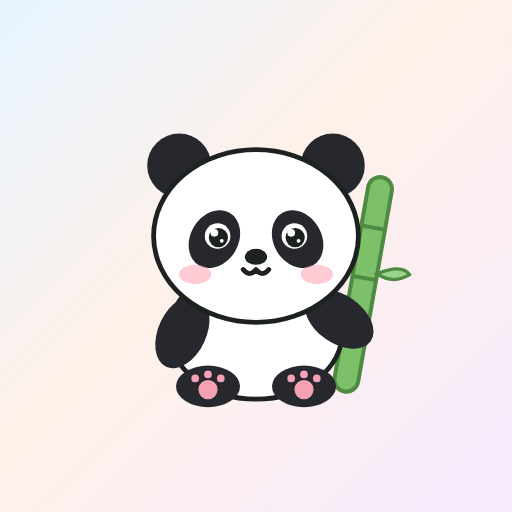
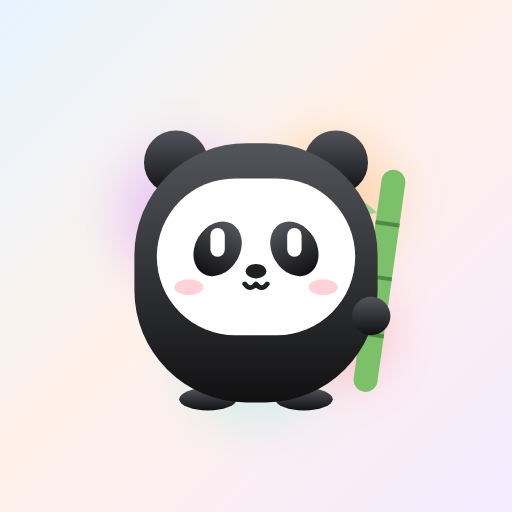
Redesenha o panda em estilo minimalista inspirado na estética da Toki
Corpo único em degradê, rosto branco liso, olhos em pílula e brilho colorido
desfocado atrás. Humores, acessórios e roupas readaptados ao novo formato.

Changed region(s): [[0.25, 0.25, 0.8125, 0.8125]]

diff --git a/panda.js b/panda.js
@@ -22,154 +22,154 @@
     mao: { '': 'Nada', bambu: 'Segurando bambu' },
   };
 
-  /* ---------- partes do desenho ---------- */
+  /* ---------- partes do desenho (estilo minimalista: corpo único em degradê) ---------- */
+  const EY = 94, EL = 76, ER = 124;   // centro dos olhos
+
   function olhos(h) {
-    const L = 76, R = 124, Y = 90;
-    const aberto = (x, dy = 0) => `<circle cx="${x}" cy="${Y}" r="8" fill="${B}"/><circle cx="${x + .5}" cy="${Y + 1 + dy}" r="6" fill="${C}"/>` +
-      `<circle cx="${x - 2}" cy="${Y - 2 + dy}" r="2.4" fill="${B}"/><circle cx="${x + 2.6}" cy="${Y + 3 + dy}" r="1.2" fill="${B}"/>`;
-    const arco = (x, d) => `<path d="M${x - 8} ${Y} q8 ${d} 16 0" fill="none" stroke="${B}" stroke-width="3.5" stroke-linecap="round"/>`;
-    const meio = x => `<path d="M${x - 8} ${Y} a8 8 0 0 0 16 0 z" fill="${B}"/><circle cx="${x}" cy="${Y + 3}" r="3.6" fill="${C}"/>`;
+    const pilula = (x, alt = 18, dy = 0) => `<rect x="${x - 4.5}" y="${EY - alt / 2 + dy}" width="9" height="${alt}" rx="4.5" fill="${B}"/>`;
+    const arco = (x, d) => `<path d="M${x - 7} ${EY + (d > 0 ? -2 : 3)} q7 ${d} 14 0" fill="none" stroke="${B}" stroke-width="4" stroke-linecap="round"/>`;
     switch (h) {
-      case 'feliz': return arco(L, -9) + arco(R, -9);
-      case 'dormindo': return arco(L, 7) + arco(R, 7);
-      case 'bravo': return meio(L) + meio(R);
-      case 'preguica': return meio(L) + meio(R) + `<path d="M${L - 9} ${Y}h18M${R - 9} ${Y}h18" stroke="${B}" stroke-width="3" stroke-linecap="round"/>`;
-      case 'triste': return aberto(L, 2) + aberto(R, 2);
-      default: return aberto(L) + aberto(R);
+      case 'feliz': return arco(EL, -10) + arco(ER, -10);
+      case 'dormindo': return arco(EL, 7) + arco(ER, 7);
+      case 'preguica': return pilula(EL, 8, 5) + pilula(ER, 8, 5);
+      case 'triste': return pilula(EL, 13, 4) + pilula(ER, 13, 4);
+      case 'bravo': return `<path d="M${EL - 4.5} ${EY - 3} L${EL + 4.5} ${EY + 1} V${EY + 9} a4.5 4.5 0 0 1 -9 0 Z" fill="${B}"/>` +
+        `<path d="M${ER + 4.5} ${EY - 3} L${ER - 4.5} ${EY + 1} V${EY + 9} a4.5 4.5 0 0 0 9 0 Z" fill="${B}"/>`;
+      default: return pilula(EL) + pilula(ER);
     }
   }
 
   function boca(h) {
     const s = `fill="none" stroke="${C}" stroke-width="3" stroke-linecap="round" stroke-linejoin="round"`;
     switch (h) {
-      case 'feliz': return `<path d="M90 111 Q100 127 110 111 Z" fill="#5a2a2f" stroke="${C}" stroke-width="2.5" stroke-linejoin="round"/><ellipse cx="100" cy="119" rx="5" ry="3" fill="${ROSA}"/>`;
-      case 'triste': return `<path d="M92 120 q8 -8 16 0" ${s}/>`;
-      case 'bravo': return `<path d="M90 119 l5 -4 l5 4 l5 -4 l5 4" ${s}/>`;
-      case 'dormindo': return `<ellipse cx="100" cy="116" rx="3.5" ry="4.5" fill="${C}"/>`;
-      case 'preguica': return `<path d="M94 115 q6 2 12 0" ${s}/>`;
-      default: return `<path d="M92 111 q4 5 8 0 q4 5 8 0" ${s}/>`;
+      case 'feliz': return `<path d="M91 120 Q100 134 109 120 Z" fill="${C}" stroke="${C}" stroke-width="2" stroke-linejoin="round"/><ellipse cx="100" cy="127.5" rx="4.5" ry="2.6" fill="${ROSA}"/>`;
+      case 'triste': return `<path d="M93 129 q7 -7 14 0" ${s}/>`;
+      case 'bravo': return `<path d="M91 128 l4.5 -4 l4.5 4 l4.5 -4 l4.5 4" ${s}/>`;
+      case 'dormindo': return `<ellipse cx="100" cy="125" rx="3" ry="4" fill="${C}"/>`;
+      case 'preguica': return `<path d="M95 124 q5 2 10 0" ${s}/>`;
+      default: return `<path d="M93 120 q3.5 4.5 7 0 q3.5 4.5 7 0" ${s}/>`;
     }
   }
 
   function sobrancelhas(h) {
-    const s = `fill="none" stroke="${C}" stroke-width="3.2" stroke-linecap="round"`;
-    if (h === 'bravo') return `<path d="M60 64 L84 73 M140 64 L116 73" ${s}/>`;
-    if (h === 'triste') return `<path d="M62 72 L82 66 M138 72 L118 66" ${s}/>`;
+    const s = `fill="none" stroke="${C}" stroke-width="3.5" stroke-linecap="round"`;
+    if (h === 'bravo') return `<path d="M62 70 L84 78 M138 70 L116 78" ${s}/>`;
+    if (h === 'triste') return `<path d="M64 77 L82 71 M136 77 L118 71" ${s}/>`;
     return '';
   }
 
   function extrasRosto(h) {
     let s = '';
-    if (h === 'triste') s += `<path class="lagrima" d="M68 104 q-5 8 0 11 q5 -3 0 -11z" fill="#7cc3f5"/>`;
-    if (h === 'bravo') s += `<path d="M146 44 q5 5 0 10 M156 44 q-5 5 0 10 M146 44 q5 5 10 0 M146 54 q5 -5 10 0" fill="none" stroke="${VERMELHO}" stroke-width="3" stroke-linecap="round"/>`;
+    if (h === 'triste') s += `<path class="lagrima" d="M69 108 q-4.5 7 0 10 q4.5 -3 0 -10z" fill="#7cc3f5"/>`;
+    if (h === 'bravo') s += `<path d="M148 50 q5 5 0 10 M158 50 q-5 5 0 10 M148 50 q5 5 10 0 M148 60 q5 -5 10 0" fill="none" stroke="${VERMELHO}" stroke-width="3" stroke-linecap="round"/>`;
     return s;
   }
 
   function cabecaAcessorio(a) {
     switch (a) {
-      case 'chapeu': return `<path d="M56 52 Q58 12 100 10 Q142 12 144 52 Z" fill="#cdb98a" stroke="#a8925f" stroke-width="2.5"/>` +
-        `<path d="M58 44 Q100 34 142 44" fill="none" stroke="#a8925f" stroke-width="5"/>` +
-        `<ellipse cx="100" cy="53" rx="74" ry="14" fill="#d8c597" stroke="#a8925f" stroke-width="2.5"/>`;
-      case 'bone': return `<path d="M42 66 Q44 10 100 8 Q156 10 158 66 Q100 50 42 66 Z" fill="${VERMELHO}" stroke="${VERMELHO_E}" stroke-width="2.5"/>` +
-        `<path d="M100 9 V58" stroke="${VERMELHO_E}" stroke-width="2"/><circle cx="100" cy="10" r="5" fill="${VERMELHO_E}"/>` +
-        `<path d="M148 58 Q182 48 194 62 Q172 74 150 70 Z" fill="#3b6fd8" stroke="#2c56b0" stroke-width="2.5"/>`;
-      case 'faixa': return `<path d="M37 70 Q100 44 163 70 L163 83 Q100 57 37 83 Z" fill="${VERMELHO}" stroke="${VERMELHO_E}" stroke-width="2"/>` +
+      case 'chapeu': return `<path d="M54 50 Q56 8 100 6 Q144 8 146 50 Z" fill="#cdb98a"/>` +
+        `<path d="M56 42 Q100 32 144 42" fill="none" stroke="#a8925f" stroke-width="5"/>` +
+        `<ellipse cx="100" cy="51" rx="78" ry="14" fill="#d8c597"/>`;
+      case 'bone': return `<path d="M36 64 Q38 6 100 4 Q162 6 164 64 Q100 48 36 64 Z" fill="${VERMELHO}"/>` +
+        `<path d="M100 5 V56" stroke="${VERMELHO_E}" stroke-width="2"/><circle cx="100" cy="6" r="5" fill="${VERMELHO_E}"/>` +
+        `<path d="M154 56 Q186 46 197 60 Q176 72 156 68 Z" fill="#3b6fd8"/>`;
+      case 'faixa': return `<path d="M30 70 Q100 42 170 70 L170 84 Q100 56 30 84 Z" fill="${VERMELHO}"/>` +
         `<circle cx="100" cy="60" r="6" fill="${B}"/><circle cx="100" cy="60" r="3" fill="${VERMELHO}"/>` +
-        `<path d="M163 76 q18 -8 28 2 M163 79 q14 10 20 24" fill="none" stroke="${VERMELHO}" stroke-width="7" stroke-linecap="round"/>`;
-      case 'bandana': return `<path d="M163 73 q18 0 27 13 M162 79 q12 9 14 27" fill="none" stroke="#2c3e7a" stroke-width="7" stroke-linecap="round"/>` +
-        `<path d="M37 68 Q100 40 163 68 L163 82 Q100 54 37 82 Z" fill="#34478c" stroke="#24326a" stroke-width="2"/>` +
-        `<rect x="71" y="45" width="58" height="25" rx="5" fill="#cfd4dc" stroke="#7d8593" stroke-width="2.5"/>` +
-        `<path d="M75 49 h50" stroke="#ffffff" stroke-opacity=".7" stroke-width="2" stroke-linecap="round"/>` +
-        `<circle cx="76" cy="52" r="1.8" fill="#7d8593"/><circle cx="124" cy="52" r="1.8" fill="#7d8593"/><circle cx="76" cy="64" r="1.8" fill="#7d8593"/><circle cx="124" cy="64" r="1.8" fill="#7d8593"/>` +
-        `<ellipse cx="100" cy="62" rx="5.5" ry="4.2" fill="#6b7280"/><circle cx="93.5" cy="55.5" r="2.2" fill="#6b7280"/><circle cx="100" cy="53.5" r="2.2" fill="#6b7280"/><circle cx="106.5" cy="55.5" r="2.2" fill="#6b7280"/>`;
-      case 'fone': return `<path d="M38 92 Q38 18 100 18 Q162 18 162 92" fill="none" stroke="#4d6b40" stroke-width="9" stroke-linecap="round"/>` +
-        `<rect x="24" y="74" width="24" height="38" rx="11" fill="#6b8f5a" stroke="#4d6b40" stroke-width="2.5"/>` +
-        `<rect x="152" y="74" width="24" height="38" rx="11" fill="#6b8f5a" stroke="#4d6b40" stroke-width="2.5"/>`;
+        `<path d="M170 76 q16 -8 24 2 M170 80 q12 10 16 24" fill="none" stroke="${VERMELHO}" stroke-width="7" stroke-linecap="round"/>`;
+      case 'bandana': return `<path d="M168 74 q16 0 24 13 M167 80 q10 9 12 26" fill="none" stroke="#2c3e7a" stroke-width="7" stroke-linecap="round"/>` +
+        `<path d="M30 70 Q100 40 170 70 L170 84 Q100 54 30 84 Z" fill="#34478c"/>` +
+        `<rect x="71" y="44" width="58" height="25" rx="6" fill="#cfd4dc"/>` +
+        `<path d="M75 48 h50" stroke="${B}" stroke-opacity=".7" stroke-width="2" stroke-linecap="round"/>` +
+        `<circle cx="76" cy="51" r="1.8" fill="#7d8593"/><circle cx="124" cy="51" r="1.8" fill="#7d8593"/><circle cx="76" cy="63" r="1.8" fill="#7d8593"/><circle cx="124" cy="63" r="1.8" fill="#7d8593"/>` +
+        `<ellipse cx="100" cy="61" rx="5.5" ry="4.2" fill="#6b7280"/><circle cx="93.5" cy="54.5" r="2.2" fill="#6b7280"/><circle cx="100" cy="52.5" r="2.2" fill="#6b7280"/><circle cx="106.5" cy="54.5" r="2.2" fill="#6b7280"/>`;
+      case 'fone': return `<path d="M30 96 Q30 14 100 14 Q170 14 170 96" fill="none" stroke="#4d6b40" stroke-width="9" stroke-linecap="round"/>` +
+        `<rect x="14" y="78" width="24" height="40" rx="11" fill="#6b8f5a"/>` +
+        `<rect x="162" y="78" width="24" height="40" rx="11" fill="#6b8f5a"/>`;
       default: return '';
     }
   }
 
   function rostoAcessorio(a) {
-    if (a === 'oculos') return `<rect x="55" y="77" width="40" height="27" rx="12" fill="${C}"/><rect x="105" y="77" width="40" height="27" rx="12" fill="${C}"/>` +
-      `<path d="M95 86 q5 -4 10 0 M55 84 L38 80 M145 84 L162 80" fill="none" stroke="${C}" stroke-width="4" stroke-linecap="round"/>` +
-      `<path d="M62 85 l9 -4 M112 85 l9 -4" stroke="${B}" stroke-opacity=".55" stroke-width="3" stroke-linecap="round"/>`;
-    if (a === 'bambuBoca') return `<path d="M38 108 Q48 118 60 116 M140 116 Q152 118 162 108" fill="none" stroke="#3a3d44" stroke-width="3" stroke-linecap="round"/>` +
-      `<rect x="58" y="109" width="84" height="15" rx="7.5" fill="${VERDE}" stroke="${VERDE_E}" stroke-width="2.5"/>` +
-      `<path d="M84 109v15M116 109v15" stroke="${VERDE_E}" stroke-width="2.5"/>`;
+    if (a === 'oculos') return `<rect x="55" y="81" width="40" height="27" rx="13" fill="${C}"/><rect x="105" y="81" width="40" height="27" rx="13" fill="${C}"/>` +
+      `<path d="M95 90 q5 -4 10 0 M55 88 L40 84 M145 88 L160 84" fill="none" stroke="${C}" stroke-width="4" stroke-linecap="round"/>` +
+      `<path d="M62 89 l9 -4 M112 89 l9 -4" stroke="${B}" stroke-opacity=".55" stroke-width="3" stroke-linecap="round"/>`;
+    if (a === 'bambuBoca') return `<path d="M40 118 Q50 126 60 125 M140 125 Q150 126 160 118" fill="none" stroke="#3a3d44" stroke-width="3" stroke-linecap="round"/>` +
+      `<rect x="58" y="118" width="84" height="15" rx="7.5" fill="${VERDE}"/>` +
+      `<path d="M84 118v15M116 118v15" stroke="${VERDE_E}" stroke-width="2.5"/>`;
     return '';
   }
 
   function efeitos(h) {
     const coracao = (x, y, cls) => `<path class="fx ${cls}" transform="translate(${x} ${y})" d="M0 3 C0 -2 -7 -2 -7 3 C-7 7 0 11 0 11 C0 11 7 7 7 3 C7 -2 0 -2 0 3Z" fill="#ff6b8a"/>`;
     const brilho = (x, y, cls) => `<path class="fx ${cls}" transform="translate(${x} ${y})" d="M0 -7 L2 -2 L7 0 L2 2 L0 7 L-2 2 L-7 0 L-2 -2Z" fill="#f3c74f"/>`;
-    if (h === 'feliz') return coracao(176, 34, 'sobe') + coracao(22, 52, 'sobe d2') + brilho(30, 22, 'pisca');
-    if (h === 'fofo') return brilho(178, 30, 'pisca') + brilho(24, 40, 'pisca d2');
-    if (h === 'dormindo') return [0, 1, 2].map(i => `<text class="fx zzz d${i}" x="${160 + i * 10}" y="${44 - i * 12}" font-size="${14 + i * 5}" font-weight="700" font-family="Outfit, sans-serif">z</text>`).join('');
+    if (h === 'feliz') return coracao(180, 30, 'sobe') + coracao(18, 50, 'sobe d2') + brilho(28, 18, 'pisca');
+    if (h === 'fofo') return brilho(182, 26, 'pisca') + brilho(16, 40, 'pisca d2');
+    if (h === 'dormindo') return [0, 1, 2].map(i => `<text class="fx zzz d${i}" x="${162 + i * 10}" y="${40 - i * 12}" font-size="${14 + i * 5}" font-weight="700" font-family="Outfit, sans-serif">z</text>`).join('');
     return '';
   }
 
   /* ---------- desenho completo ---------- */
+  let contador = 0;
   function PandaSVG(o = {}) {
     const h = HUMORES.includes(o.humor) ? o.humor : 'fofo';
-    const casaco = o.roupa === 'casaco';
-    const ROUPA = { casaco: [MARROM], dino: ['#8fc79a', '#5f9b6b'], moletom: ['#f4a6c0', '#d77b9d'] }[o.roupa];
-    const vestido = !!ROUPA;
-    const bambu = o.mao === 'bambu';
-    const corpo = vestido ? ROUPA[0] : B;
-    const manga = vestido ? ROUPA[0] : P;
-
-    // Capuz (dinossauro e moletom) fica atrás da cabeça.
-    const capuz = (o.roupa === 'dino' ? `<path d="M54 50 L58 20 L78 38 Z M86 34 L100 6 L114 34 Z M146 50 L142 20 L122 38 Z" fill="#6aa877" stroke="${ROUPA[1]}" stroke-width="2.5" stroke-linejoin="round"/>` : '') +
-      (o.roupa === 'dino' || o.roupa === 'moletom' ? `<ellipse cx="100" cy="90" rx="74" ry="63" fill="${ROUPA[0]}" stroke="${ROUPA[1]}" stroke-width="3"/>` : '');
-    const orelhas = o.roupa === 'dino' ? '' : `<circle cx="52" cy="46" r="20" fill="${P}"/><circle cx="148" cy="46" r="20" fill="${P}"/>`;
-    const rabo = o.roupa === 'dino' ? `<path d="M140 176 Q186 186 196 150 Q182 160 172 158 Q160 166 146 162 Z" fill="${ROUPA[0]}" stroke="${ROUPA[1]}" stroke-width="2.5" stroke-linejoin="round"/>` +
-      `<path d="M176 160 l6 -9 l4 10 M186 156 l7 -7 l2 10" fill="#6aa877" stroke="${ROUPA[1]}" stroke-width="2" stroke-linejoin="round"/>` : '';
+    const id = 'pd' + (++contador);
     const fx = o.efeitos === false ? '' : efeitos(h);
+    const bambu = o.mao === 'bambu';
 
-    const pes = [70, 130].map(x => `<ellipse cx="${x}" cy="184" rx="20" ry="13" fill="${P}"/><circle cx="${x}" cy="186" r="6" fill="${ROSA}"/>` +
-      `<circle cx="${x - 8}" cy="179" r="2.4" fill="${ROSA}"/><circle cx="${x}" cy="176.5" r="2.4" fill="${ROSA}"/><circle cx="${x + 8}" cy="179" r="2.4" fill="${ROSA}"/>`).join('');
+    // Cor do corpo: pelo escuro em degradê, ou a cor da roupa.
+    const CORES = { '': ['#53555c', '#111112'], casaco: ['#b08158', '#6e4a2e'], dino: ['#9fd3a8', '#5f9b6b'], moletom: ['#f7b6cc', '#d77b9d'] };
+    const [c1, c2] = CORES[o.roupa] || CORES[''];
+    const defs = `<defs>
+      <linearGradient id="${id}c" x1="0" y1="0" x2="0" y2="1"><stop offset="0" stop-color="${c1}"/><stop offset="1" stop-color="${c2}"/></linearGradient>
+      <linearGradient id="${id}p" x1="0" y1="0" x2="0" y2="1"><stop offset="0" stop-color="#53555c"/><stop offset="1" stop-color="#111112"/></linearGradient>
+      <filter id="${id}b" x="-50%" y="-50%" width="200%" height="200%"><feGaussianBlur stdDeviation="16"/></filter>
+    </defs>`;
+    const pelo = `url(#${id}p)`, corpo = `url(#${id}c)`;
 
-    const barriga = `<ellipse cx="100" cy="150" rx="54" ry="42" fill="${corpo}" stroke="${C}" stroke-width="3"/>` +
-      (casaco ? `<ellipse cx="100" cy="158" rx="17" ry="32" fill="${B}"/><path d="M83 128 L100 150 L117 128" fill="none" stroke="#7a5034" stroke-width="3" stroke-linejoin="round"/>` +
-        `<circle cx="100" cy="164" r="2.6" fill="#7a5034"/><circle cx="100" cy="176" r="2.6" fill="#7a5034"/>` : '') +
-      (o.roupa === 'dino' ? `<ellipse cx="100" cy="160" rx="30" ry="27" fill="#e3f3d6"/><path d="M76 150 h48 M72 162 h56 M76 174 h48" stroke="#b9dca5" stroke-width="2.5" stroke-linecap="round"/>` : '') +
-      (o.roupa === 'moletom' ? `<path d="M76 158 h48 l5 22 h-58 z" fill="#e98fae" stroke="#d77b9d" stroke-width="2" stroke-linejoin="round"/>` +
-        `<path d="M92 140 v16 M108 140 v16" stroke="${B}" stroke-width="2.5" stroke-linecap="round"/><circle cx="92" cy="158" r="2.6" fill="${B}"/><circle cx="108" cy="158" r="2.6" fill="${B}"/>` : '');
+    // Brilho colorido desfocado atrás do panda.
+    const brilho = o.brilho === false ? '' : `<g class="aura" filter="url(#${id}b)" opacity=".38">
+      <circle cx="58" cy="78" r="42" fill="#ce7bfe"/><circle cx="146" cy="70" r="40" fill="#ffa946"/>
+      <circle cx="100" cy="160" r="46" fill="#86ebd7"/><circle cx="150" cy="150" r="30" fill="#f95b6d"/></g>`;
 
-    const vara = bambu ? `<g transform="rotate(10 164 140)"><rect x="156" y="52" width="15" height="136" rx="7.5" fill="${VERDE}" stroke="${VERDE_E}" stroke-width="2.5"/>` +
-      `<path d="M156 84h15M156 116h15M156 150h15" stroke="${VERDE_E}" stroke-width="2.5"/>` +
-      `<path d="M171 112 q14 -9 20 -3 q-9 8 -20 3z" fill="#9ad38a" stroke="${VERDE_E}" stroke-width="2"/></g>` : '';
+    const espinhos = o.roupa === 'dino' ? `<path d="M52 48 L56 16 L78 36 Z M86 32 L100 4 L114 32 Z M148 48 L144 16 L122 36 Z" fill="#6aa877"/>` : '';
+    const rabo = o.roupa === 'dino' ? `<path d="M150 178 Q188 188 197 152 Q184 162 174 160 Q162 168 152 164 Z" fill="#7fbf8b"/>` : '';
+    const orelhas = o.roupa === 'dino' ? '' : `<circle class="pelo" cx="50" cy="44" r="20" fill="${pelo}"/><circle class="pelo" cx="150" cy="44" r="20" fill="${pelo}"/>`;
 
-    const bracoE = `<ellipse cx="54" cy="150" rx="15" ry="24" transform="rotate(25 54 150)" fill="${manga}"/>` + (vestido ? `<circle cx="44" cy="171" r="9" fill="${P}"/>` : '');
-    const bracoD = bambu
-      ? `<ellipse cx="152" cy="142" rx="15" ry="24" transform="rotate(-55 152 142)" fill="${manga}"/>` + (vestido ? `<circle cx="170" cy="130" r="9" fill="${P}"/>` : '')
-      : `<ellipse cx="146" cy="150" rx="15" ry="24" transform="rotate(-25 146 150)" fill="${manga}"/>` + (vestido ? `<circle cx="156" cy="171" r="9" fill="${P}"/>` : '');
+    const vara = bambu ? `<g transform="rotate(8 176 130)"><rect x="168" y="48" width="15" height="140" rx="7.5" fill="${VERDE}"/>` +
+      `<path d="M168 82h15M168 116h15M168 152h15" stroke="${VERDE_E}" stroke-width="2.5"/>` +
+      `<path d="M168 76 q-16 -12 -22 -4 q9 9 22 4z" fill="#9ad38a"/></g>` : '';
 
-    const cachecol = o.roupa === 'cachecol'
-      ? `<path d="M50 134 Q100 158 150 134 L153 149 Q100 173 47 149 Z" fill="${VERMELHO}" stroke="${VERMELHO_E}" stroke-width="2"/>` +
-        `<path d="M54 142 Q100 164 146 142" fill="none" stroke="${B}" stroke-opacity=".5" stroke-width="2"/>` +
-        `<path d="M114 152 L130 150 L136 184 L120 186 Z" fill="${VERMELHO}" stroke="${VERMELHO_E}" stroke-width="2"/>` +
-        `<path d="M122 186v6M128 185v6M134 184v6" stroke="${VERMELHO}" stroke-width="2.5" stroke-linecap="round"/>`
-      : '';
+    // Detalhes da roupa na barriga (abaixo do rosto).
+    const roupa = {
+      casaco: `<path d="M84 154 L100 192 L116 154 Z" fill="${B}"/><path d="M84 154 L100 176 L116 154" fill="none" stroke="#5a3b24" stroke-width="3" stroke-linejoin="round"/>`,
+      dino: `<path d="M64 166 h72 M70 178 h60" stroke="#e3f3d6" stroke-opacity=".8" stroke-width="4" stroke-linecap="round"/>`,
+      moletom: `<path d="M74 166 h52 l6 20 h-64 z" fill="#e98fae"/><path d="M90 150 v14 M110 150 v14" stroke="${B}" stroke-width="2.5" stroke-linecap="round"/><circle cx="90" cy="166" r="2.6" fill="${B}"/><circle cx="110" cy="166" r="2.6" fill="${B}"/>`,
+      cachecol: `<path d="M26 148 Q100 176 174 148 L176 163 Q100 191 24 163 Z" fill="${VERMELHO}"/>` +
+        `<path d="M118 166 L134 163 L140 192 L124 194 Z" fill="${VERMELHO_E}"/>`,
+    }[o.roupa] || '';
 
-    const cabeca = `<g class="cabeca">
-      ${capuz}${orelhas}
-      <ellipse cx="100" cy="90" rx="64" ry="54" fill="${B}" stroke="${C}" stroke-width="3"/>
-      <ellipse cx="74" cy="92" rx="15" ry="19" transform="rotate(30 74 92)" fill="${P}"/>
-      <ellipse cx="126" cy="92" rx="15" ry="19" transform="rotate(-30 126 92)" fill="${P}"/>
+    const pes = `<ellipse class="pelo" cx="70" cy="192" rx="18" ry="7" fill="${pelo}"/><ellipse class="pelo" cx="130" cy="192" rx="18" ry="7" fill="${pelo}"/>`;
+    const pata = bambu ? `<circle class="pelo" cx="172" cy="140" r="12" fill="${pelo}"/>` : '';
+
+    const rosto = `<g class="cabeca">
+      <rect x="38" y="54" width="124" height="98" rx="49" fill="${B}"/>
+      <ellipse class="pelo" cx="76" cy="98" rx="14" ry="18" transform="rotate(30 76 98)" fill="${pelo}"/>
+      <ellipse class="pelo" cx="124" cy="98" rx="14" ry="18" transform="rotate(-30 124 98)" fill="${pelo}"/>
       <g class="olhos">${olhos(h)}</g>
       ${sobrancelhas(h)}
-      <ellipse cx="62" cy="114" rx="10" ry="6" fill="#ff8fa3" opacity="${h === 'bravo' ? .75 : .45}"/>
-      <ellipse cx="138" cy="114" rx="10" ry="6" fill="#ff8fa3" opacity="${h === 'bravo' ? .75 : .45}"/>
-      <ellipse cx="100" cy="103" rx="7" ry="5" fill="${C}"/>
+      <ellipse cx="58" cy="122" rx="9" ry="5" fill="#ff8fa3" opacity="${h === 'bravo' ? .7 : .4}"/>
+      <ellipse cx="142" cy="122" rx="9" ry="5" fill="#ff8fa3" opacity="${h === 'bravo' ? .7 : .4}"/>
+      <ellipse cx="100" cy="112" rx="6.5" ry="4.5" fill="${C}"/>
       ${boca(h)}
       ${extrasRosto(h)}
       ${rostoAcessorio(o.rosto)}
       ${cabecaAcessorio(o.cabeca)}
     </g>`;
 
-    return `<svg class="panda-svg h-${h}" viewBox="0 0 200 200" xmlns="http://www.w3.org/2000/svg" aria-hidden="true">` +
-      rabo + vara + barriga + pes + bracoE + bracoD + cabeca + cachecol + fx + `</svg>`;
+    return `<svg class="panda-svg h-${h}" viewBox="0 0 200 200" xmlns="http://www.w3.org/2000/svg" aria-hidden="true">` + defs + brilho +
+      rabo + espinhos + orelhas + vara + pes +
+      `<rect class="pelo corpo" x="24" y="32" width="152" height="162" rx="70" fill="${corpo}"/>` +
+      roupa + pata + rosto + fx + `</svg>`;
   }
 
   g.PandaSVG = PandaSVG;

diff --git a/styles.css b/styles.css
@@ -286,7 +286,7 @@ label > input, label > select, label > textarea { margin-top: 6px; color: var(--
 .panda-svg .zzz.d2 { animation-delay: 1.8s; }
 .panda-svg .lagrima { animation: lagrima 1.8s ease-in infinite; }
 @media (prefers-color-scheme: dark) {
-  .panda-svg [fill="#26282e"] { stroke: rgba(255, 255, 255, .22); stroke-width: 2; }
+  .panda-svg .pelo { stroke: rgba(255, 255, 255, .18); stroke-width: 1.5; }
 }
 
 @keyframes flutuar { 0%, 100% { transform: translateY(0) rotate(-2deg); } 50% { transform: translateY(-6px) rotate(2deg); } }

diff --git a/sw.js b/sw.js
@@ -1,5 +1,5 @@
 // Service worker: guarda os arquivos do app para funcionar offline.
-const CACHE = 'meu-controle-v6';
+const CACHE = 'meu-controle-v7';
 const ARQUIVOS = ['./', 'index.html', 'styles.css', 'panda.js', 'app.js', 'nuvem.js', 'firebase-config.js', 'manifest.webmanifest', 'icons/icon.svg', 'icons/icon-192.png', 'icons/icon-512.png', 'icons/panda.svg', 'fonts/outfit.woff2'];
 
 self.addEventListener('install', e => {
